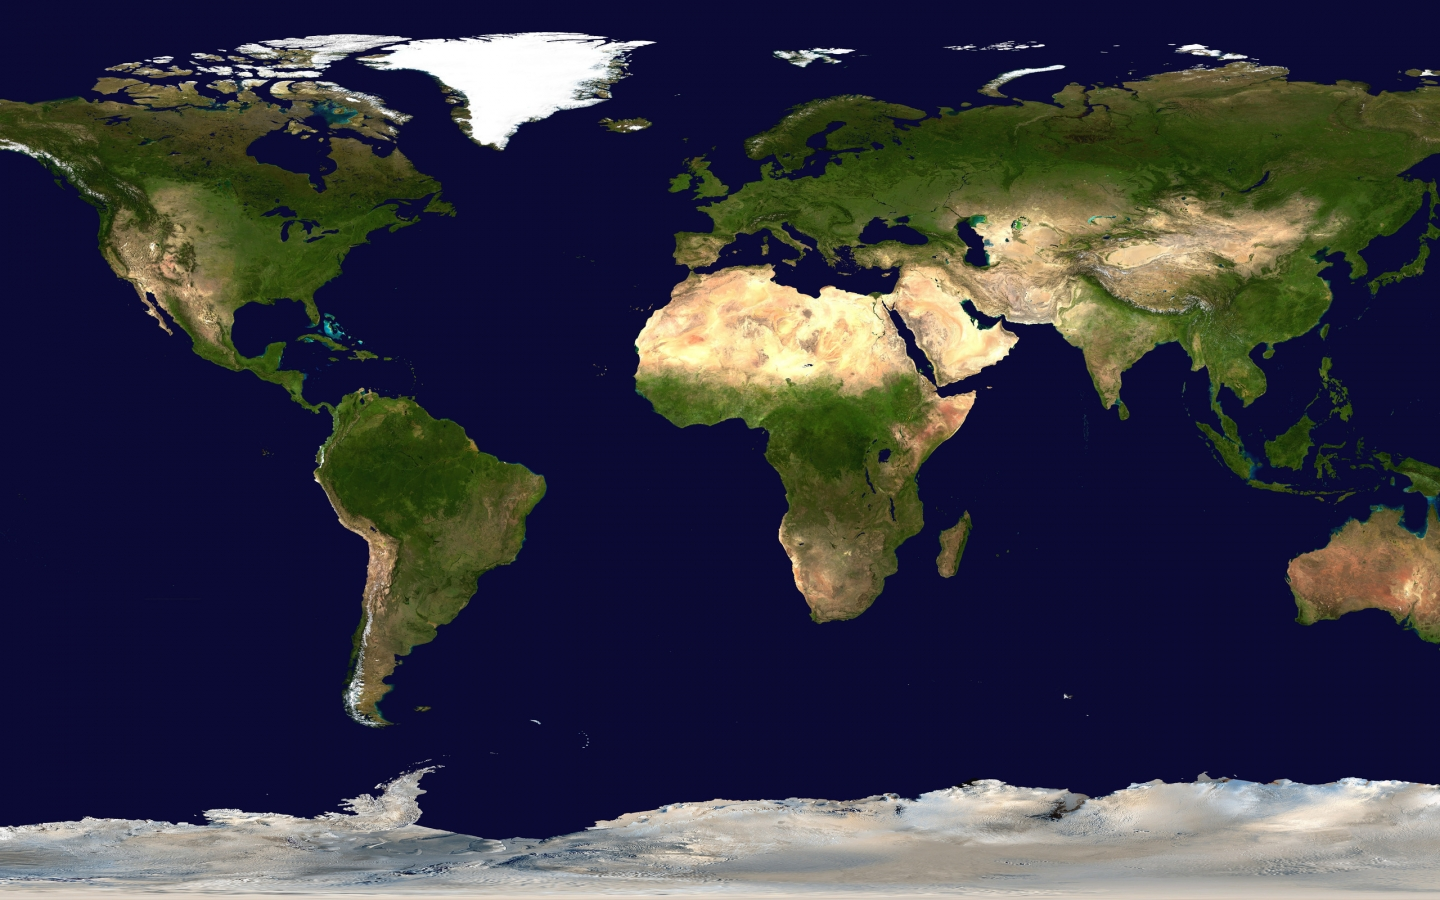
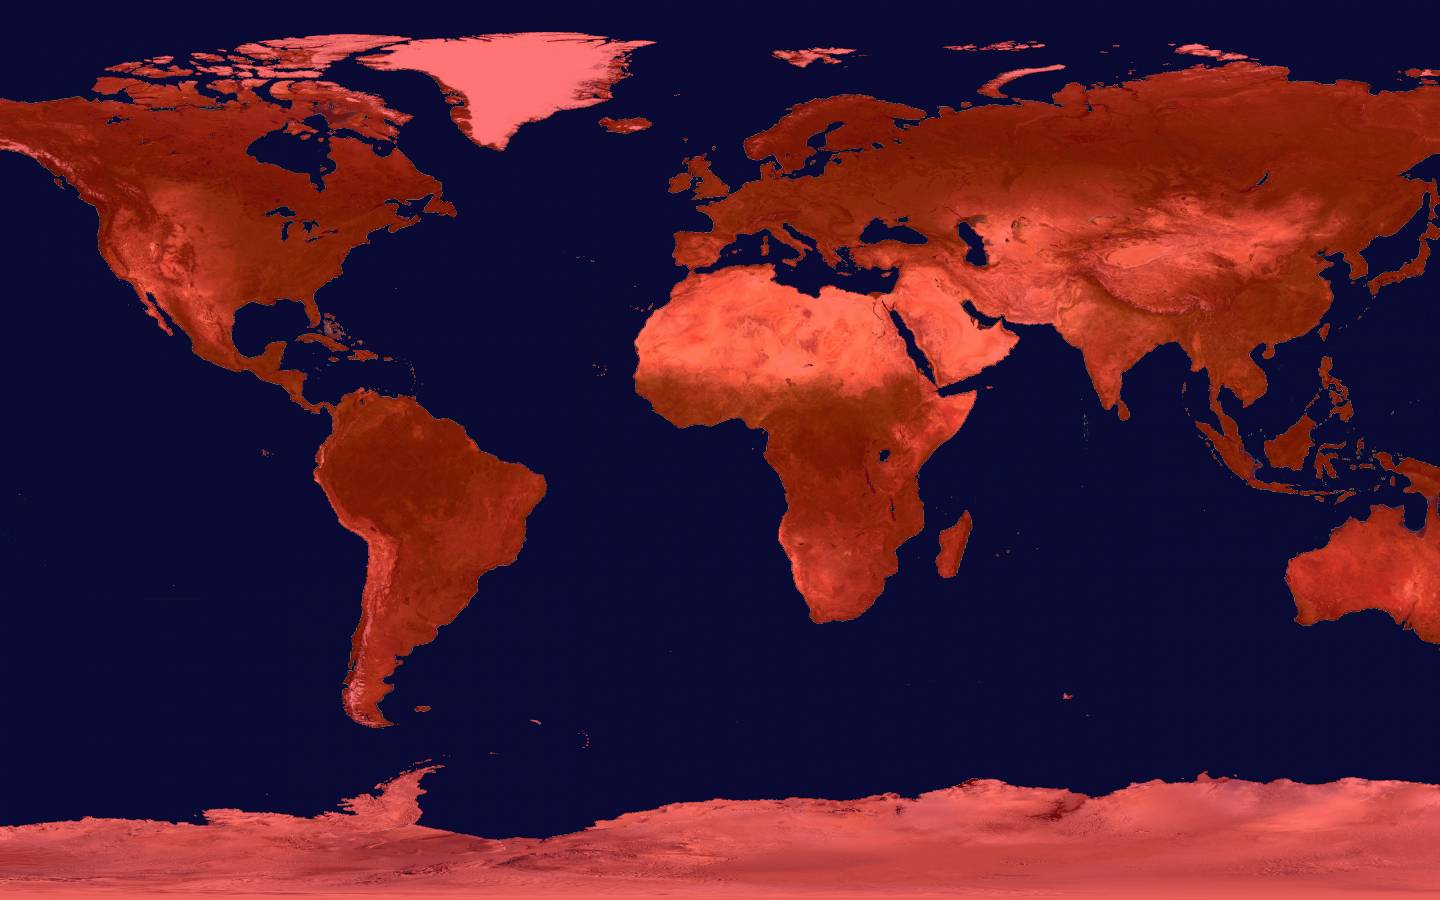
Better visual infection spreading

diff --git a/gameManager.py b/gameManager.py
@@ -9,6 +9,8 @@ class GameManager(object):
     def __init__(self):
         self.score = 0
         self.background = Drawable("background.jpeg", None, (0, 0))
+        #self.overlay = Drawable("overlay.jpeg", None, (0,0))
+        self.overlay = pygame.image.load("images/overlay.jpeg").convert_alpha()
         self.drawSurface = pygame.Surface(list(map(int, RESOLUTION)))
         self.servers = {}
 
@@ -31,9 +33,9 @@ class GameManager(object):
         pass
     
     def draw(self, screen):
-        self.drawSurface.fill((255, 255, 255)) 
+        self.drawSurface.fill((255, 255, 255))
         self.background.draw(self.drawSurface)   
-        
+        self.drawSurface.blit(self.overlay, (0, 0))
         for server_id, server in self.servers.items():
-            server.draw(self.drawSurface)
+            server.draw(self.drawSurface, self.overlay)
         pygame.transform.scale(self.drawSurface, UPSCALED, screen)

diff --git a/server.py b/server.py
@@ -20,10 +20,9 @@ class Server(Drawable):
         if self.infected:
             self.infection_radius += 0.0001
     
-    def draw(self, surface):
+    def draw(self, surface, overlay):
         super().draw(surface)
         if self.infected:
-            infection_color = (255, 0, 0, 128)
-            pygame.gfxdraw.filled_circle(surface, int(self.position[0]), int(self.position[1]), int(self.infection_radius), infection_color)
-            pygame.gfxdraw.aacircle(surface, int(self.position[0]), int(self.position[1]), int(self.infection_radius), infection_color)
+            infection_color = (0, 0, 0, 0)
+            pygame.gfxdraw.filled_circle(overlay, int(self.position[0]), int(self.position[1]), int(self.infection_radius), infection_color)
 
